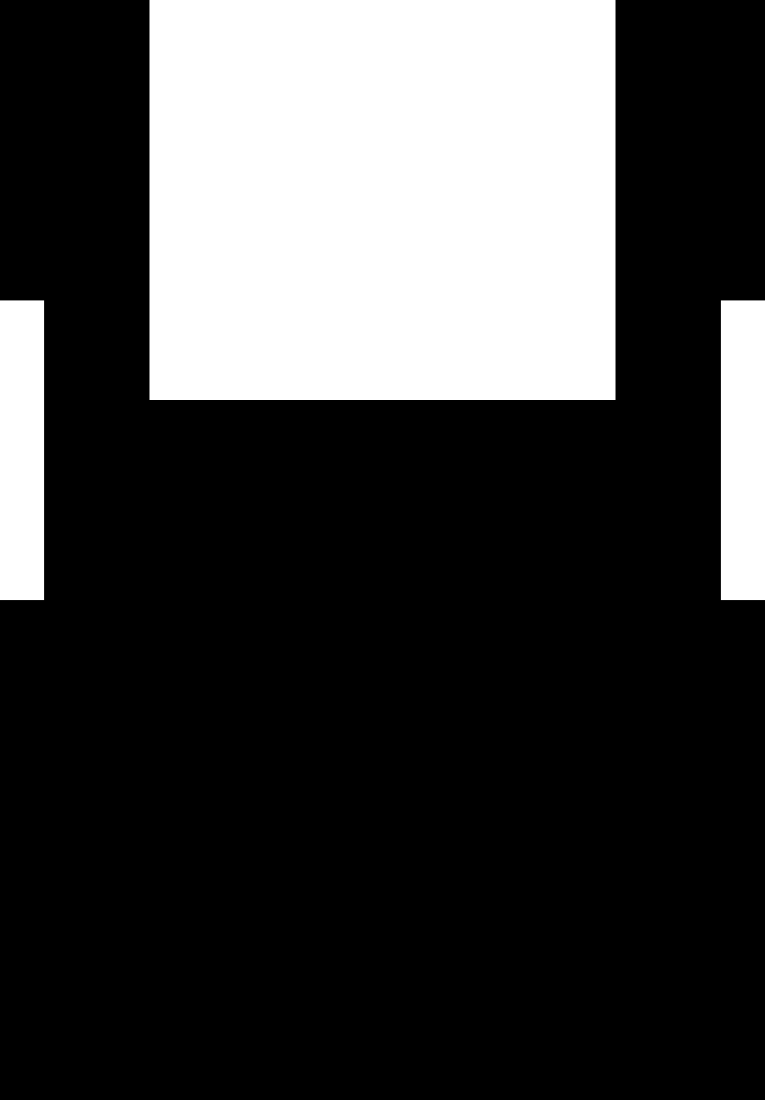
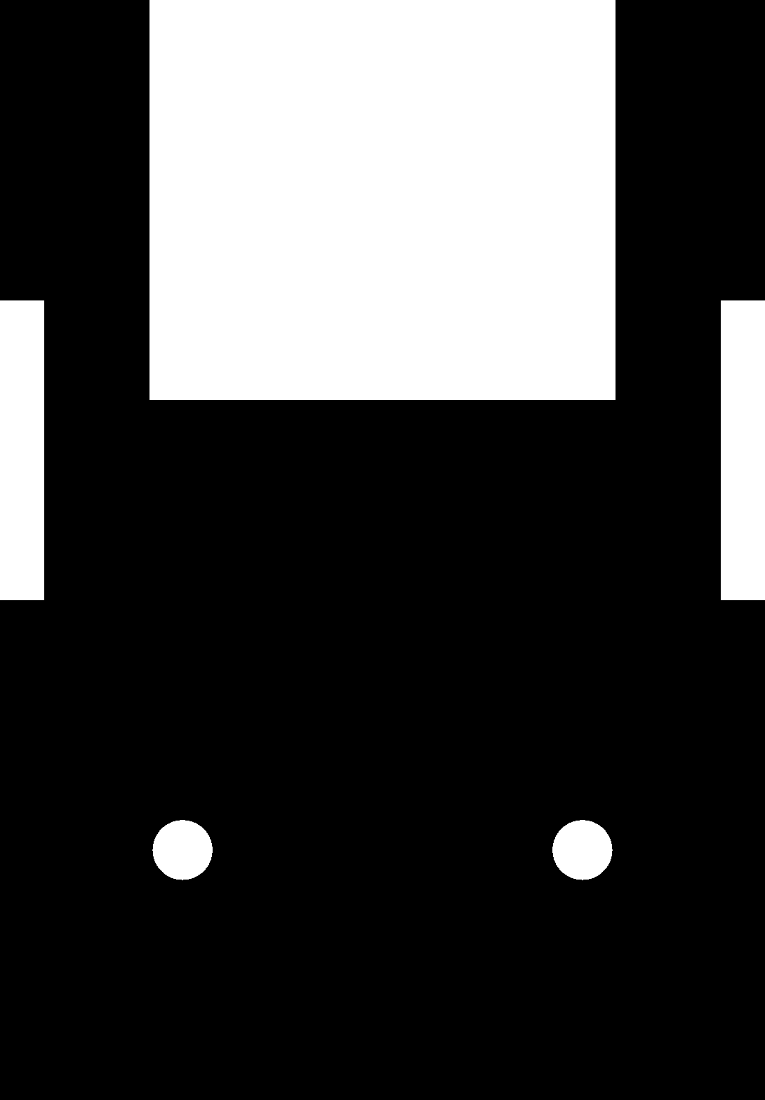
Refactored a bunch of drill code

Changed region(s): [[0.7216, 0.7418, 0.8118, 0.8036], [0.1804, 0.7418, 0.2706, 0.8036]]

diff --git a/STL/STLProcessor.py b/STL/STLProcessor.py
@@ -108,74 +108,26 @@ class STLProcessor:
         imageSlicesRightLeft = self.imageSlicesLeftRight.copy()
         imageSlicesRightLeft.reverse()
         faceOrder = ['top', 'front', 'right', 'back', 'left']
+        pxRadius = mm2pixel(configurationMap['drill']['diameter']/2 - 1)
         for facenum, imgSlices in enumerate([self.imageSlicesTopDown, self.imageSlicesFrontBack, imageSlicesRightLeft,
                                              imageSlicesBackFront, self.imageSlicesLeftRight]):
-            # Detect top down drills
-            totalDrillPoints = []
-            for img in imgSlices:
-                drillPoints = self._detectDrill(img)
-                totalDrillPoints.append(drillPoints)
-            # Detect holes
-            totalDrillPointsWithHoles = self._getTotalDrillPointsWithHoles(totalDrillPoints, imgSlices)
-            self._parseDrillPoints(totalDrillPointsWithHoles, sliceDepth, faceOrder[facenum])
 
+            surfaceDrillHoles = self._detectDrill(imgSlices[0]) # This returns in pixels
 
-    def _getTotalDrillPointsWithHoles(self, totalDrillPoints, imageSlices):
-        totalDrillPointsWithHoles = []
-        for img in imageSlices:
-            drillPointsWithHoles = []
-            for drillPoint in unique(totalDrillPoints):
-                pxRadius = mm2pixel(configurationMap['drill']['diameter']/2) - \
-                           configurationMap['drill']['detectionTolerance']/2
-                pxDrillPoint = mmPos2PixelPos(drillPoint, img)
-                if self._containsHole(img, pxDrillPoint, pxRadius):
-                    drillPointsWithHoles.append(drillPoint)
-
-            totalDrillPointsWithHoles.append(drillPointsWithHoles)
-        return totalDrillPointsWithHoles
-
-    def _parseDrillPoints(self, totalDrillPoints, sliceDepth, face):
-
-        trackingPoints = []
-        drillHoleLengths = {}
-
-        # Get initial holes from surface
-        for drillPoint in totalDrillPoints[0]:
-            drillHoleLengths[drillPoint] = 0
-            trackingPoints.append(drillPoint)
-
-        for drillPoints in totalDrillPoints:
-            updatedTrackingPoints = []
-            for trackedPoint in trackingPoints:
-                if trackedPoint in drillPoints:
-                    drillHoleLengths[trackedPoint] += sliceDepth
-                    updatedTrackingPoints.append(trackedPoint)
-            trackingPoints = updatedTrackingPoints
-
-        for drillPoint, depth in drillHoleLengths.items():
-            # Drill command
-            self.controller.commandGenerator.drill(
-                face, drillPoint[0], drillPoint[1], depth)
-            # Fill in hole in image
-            numSlices = int(depth/self.sliceDepth)
-            imageSlices = []
-            if face == 'top':
-                imageSlices = self.imageSlicesTopDown
-            elif face == 'right':
-                imageSlices = self.imageSlicesLeftRight
-                imageSlices.reverse()
-            elif face == 'left':
-                imageSlices = self.imageSlicesLeftRight
-            elif face == 'front':
-                imageSlices = self.imageSlicesFrontBack
-            elif face == 'back':
-                imageSlices = self.imageSlicesFrontBack
-                imageSlices.reverse()
-            for imnum in range(numSlices):
-                im = imageSlices[imnum]
-                pim = self._fillHole(im, mmPos2PixelPos(drillPoint, im),
-                                     mm2pixel(configurationMap['drill']['diameter']/2+1), 1) # Added 1 just in case
-                imageSlices[imnum] = pim
+            for surfaceHole in surfaceDrillHoles:
+                imgnum = 1
+                depth = 0
+                while imgnum < len(imgSlices) and self._containsHole(
+                        imgSlices[imgnum],
+                        mmPos2PixelPos(surfaceHole, imgSlices[imgnum]),
+                        pxRadius):
+                    depth += self.sliceDepth
+                    imgnum += 1
+                # Do drill
+                if depth > 0:
+                    print(depth)
+                    (x, z) = surfaceHole
+                    self.controller.commandGenerator.drill(faceOrder[facenum], x, z, depth)
 
     def _clearFolders(self):
         clearFolder('STL/output/frontback')
@@ -384,13 +336,9 @@ class STLProcessor:
             imgSlices.reverse()
             surfaceIm = imgSlices[0]
             pathListWithShapes = self._detectEdge(surfaceIm)
-
-
-            print('length paths', len(pathListWithShapes))
             for i,pathListPerShape in enumerate(pathListWithShapes):
                 imageNum = 1
                 # Loop through each shape
-                print('looping through shape', i)
                 currentDepth = 0
                 while imageNum < len(self.imageSlicesTopDown) and self._shapeExistsInImg(
                         imgSlices[imageNum], pathListPerShape):
@@ -430,12 +378,9 @@ class STLProcessor:
 
     def _shapeExistsInImg(self, img, pathList, mmAccuracy=1):
         pathListWithShapes = self._detectEdge(img)
-        print('original', len(pathListWithShapes), len(pathList), pathList)
 
         for pathListPerShape in pathListWithShapes:
-            print('compare', pathListPerShape)
             if tupleArrayInRange(pathListPerShape, pathList, mm2pixel(mmAccuracy)):
-                print('worked')
                 return True
 
         pathListWithShapes.reverse()
